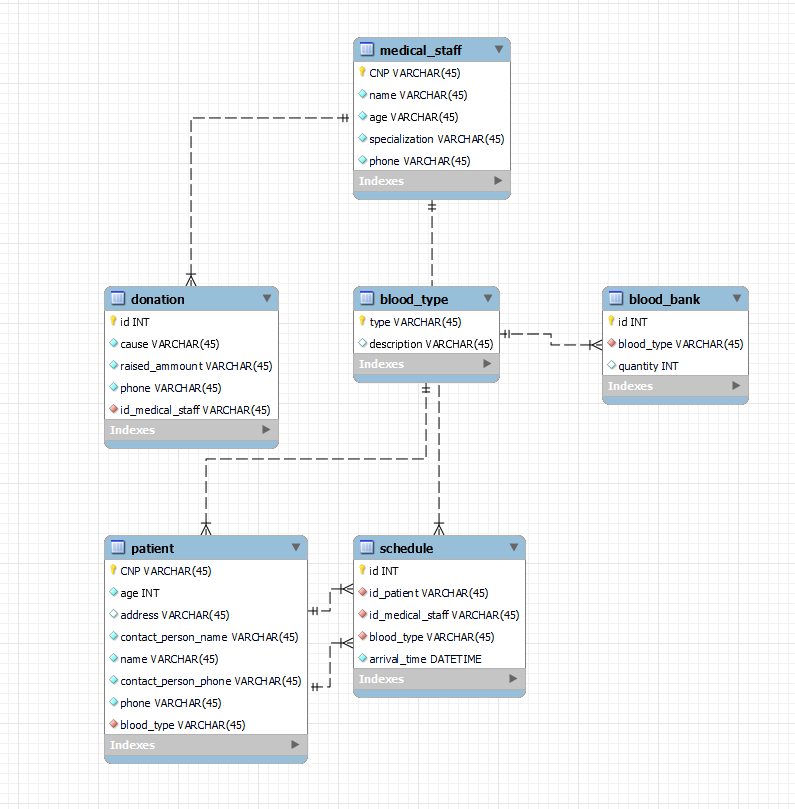
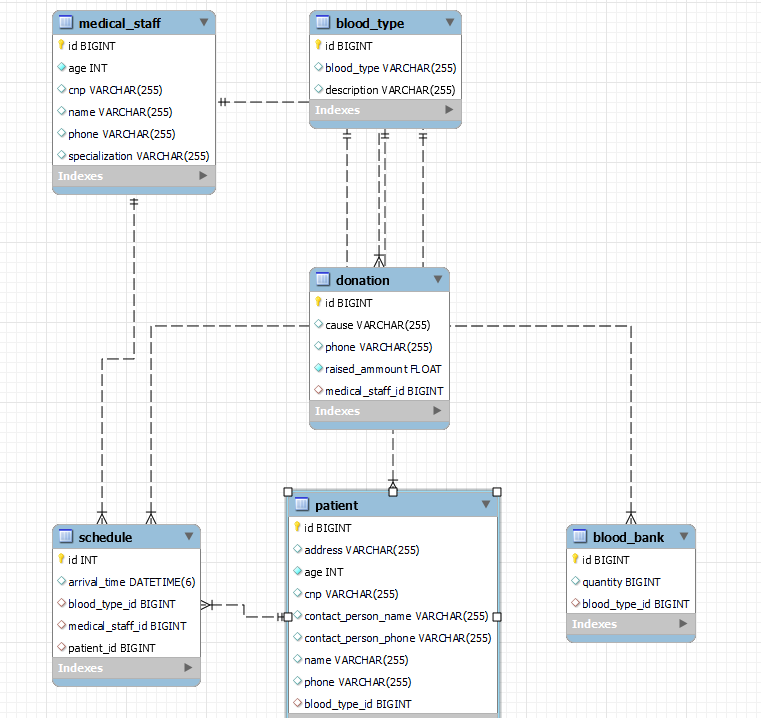
removed annoying column naming bugs

Changed region(s): [[0.0604, 0.0, 0.6951, 1.0], [0.7254, 0.337, 0.9671, 0.5209], [0.7254, 0.7047, 0.9369, 0.9192]]

diff --git a/src/main/java/application/model/Patient.java b/src/main/java/application/model/Patient.java
@@ -7,24 +7,27 @@ import javax.persistence.*;
 public class Patient {
 
     @Id
-    private String cnp;
+    @GeneratedValue(strategy = GenerationType.AUTO)
+    private Long id;
 
     private int age;
     private String address;
     private String contactPersonName;
     private String name;
-    private String getContactPersonPhone;
+    private String contactPersonPhone;
     private String phone;
 
     @ManyToOne
     private BloodType bloodType;
 
-    public String getCnp() {
-        return cnp;
+    private String cnp;
+
+    public Long getId() {
+        return id;
     }
 
-    public void setCnp(String cnp) {
-        this.cnp = cnp;
+    public void setId(Long id) {
+        this.id = id;
     }
 
     public int getAge() {
@@ -59,12 +62,12 @@ public class Patient {
         this.name = name;
     }
 
-    public String getGetContactPersonPhone() {
-        return getContactPersonPhone;
+    public String getContactPersonPhone() {
+        return contactPersonPhone;
     }
 
-    public void setGetContactPersonPhone(String getContactPersonPhone) {
-        this.getContactPersonPhone = getContactPersonPhone;
+    public void setContactPersonPhone(String contactPersonPhone) {
+        this.contactPersonPhone = contactPersonPhone;
     }
 
     public String getPhone() {
@@ -81,5 +84,13 @@ public class Patient {
 
     public void setBloodType(BloodType bloodType) {
         this.bloodType = bloodType;
+    }
+
+    public String getCnp() {
+        return cnp;
+    }
+
+    public void setCnp(String cnp) {
+        this.cnp = cnp;
     }
 }

diff --git a/src/main/java/application/model/MedicalStaff.java b/src/main/java/application/model/MedicalStaff.java
@@ -7,50 +7,13 @@ import javax.persistence.*;
 public class MedicalStaff {
 
     @Id
-    private String cnp;
+    @GeneratedValue(strategy = GenerationType.AUTO)
+    private Long id;
 
     private String name;
     private int age;
     private String specialization;
     private String phone;
+    private String cnp;
 
-    public String getCnp() {
-        return cnp;
-    }
-
-    public void setCnp(String cnp) {
-        this.cnp = cnp;
-    }
-
-    public String getName() {
-        return name;
-    }
-
-    public void setName(String name) {
-        this.name = name;
-    }
-
-    public int getAge() {
-        return age;
-    }
-
-    public void setAge(int age) {
-        this.age = age;
-    }
-
-    public String getSpecialization() {
-        return specialization;
-    }
-
-    public void setSpecialization(String specialization) {
-        this.specialization = specialization;
-    }
-
-    public String getPhone() {
-        return phone;
-    }
-
-    public void setPhone(String phone) {
-        this.phone = phone;
-    }
 }

diff --git a/src/main/java/application/model/BloodBank.java b/src/main/java/application/model/BloodBank.java
@@ -7,10 +7,9 @@ public class BloodBank {
     @Id
     @GeneratedValue(strategy = GenerationType.AUTO)
     private Long id;
-    private Long quantity;
-
-    @ManyToOne
+    @OneToOne
     private BloodType bloodType;
+    private Long quantity;
 
     public Long getId() {
         return id;
@@ -20,19 +19,19 @@ public class BloodBank {
         this.id = id;
     }
 
-    public Long getQuantity() {
-        return quantity;
-    }
-
-    public void setQuantity(Long quantity) {
-        this.quantity = quantity;
-    }
-
     public BloodType getBloodType() {
         return bloodType;
     }
 
     public void setBloodType(BloodType bloodType) {
         this.bloodType = bloodType;
+    }
+
+    public Long getQuantity() {
+        return quantity;
+    }
+
+    public void setQuantity(Long quantity) {
+        this.quantity = quantity;
     }
 }

diff --git a/src/main/java/application/model/BloodType.java b/src/main/java/application/model/BloodType.java
@@ -5,16 +5,27 @@ import javax.persistence.*;
 @Entity
 public class BloodType {
     @Id
-    private String type;
+    @GeneratedValue(strategy = GenerationType.AUTO)
+    private Long id;
+
+    private String bloodType;
 
     private String description;
 
-    public String getType() {
-        return type;
+    public Long getId() {
+        return id;
     }
 
-    public void setType(String type) {
-        this.type = type;
+    public void setId(Long id) {
+        this.id = id;
+    }
+
+    public String getBloodType() {
+        return bloodType;
+    }
+
+    public void setBloodType(String bloodType) {
+        this.bloodType = bloodType;
     }
 
     public String getDescription() {

diff --git a/src/main/java/application/repository/BloodBankRepository.java b/src/main/java/application/repository/BloodBankRepository.java
@@ -9,7 +9,7 @@ import java.util.List;
 
 @Repository
 public interface BloodBankRepository extends JpaRepository<BloodBank, Long> {
-    @Query(value = "select * from blood_bank", nativeQuery = true)
+    @Query(value = "SELECT * FROM blood_clinic.blood_bank", nativeQuery = true)
     List<BloodBank> findAllBloodBank();
 
 }

diff --git a/src/main/java/application/controller/BloodBankController.java b/src/main/java/application/controller/BloodBankController.java
@@ -33,6 +33,7 @@ public class BloodBankController {
         } else {
             response.setStatus(HttpServletResponse.SC_INTERNAL_SERVER_ERROR);
         }
+        System.out.println(fetchBloodBankResponse.getFetchedBloodBank().get(0).getBloodType());
         return fetchBloodBankResponse;
     }
 }
